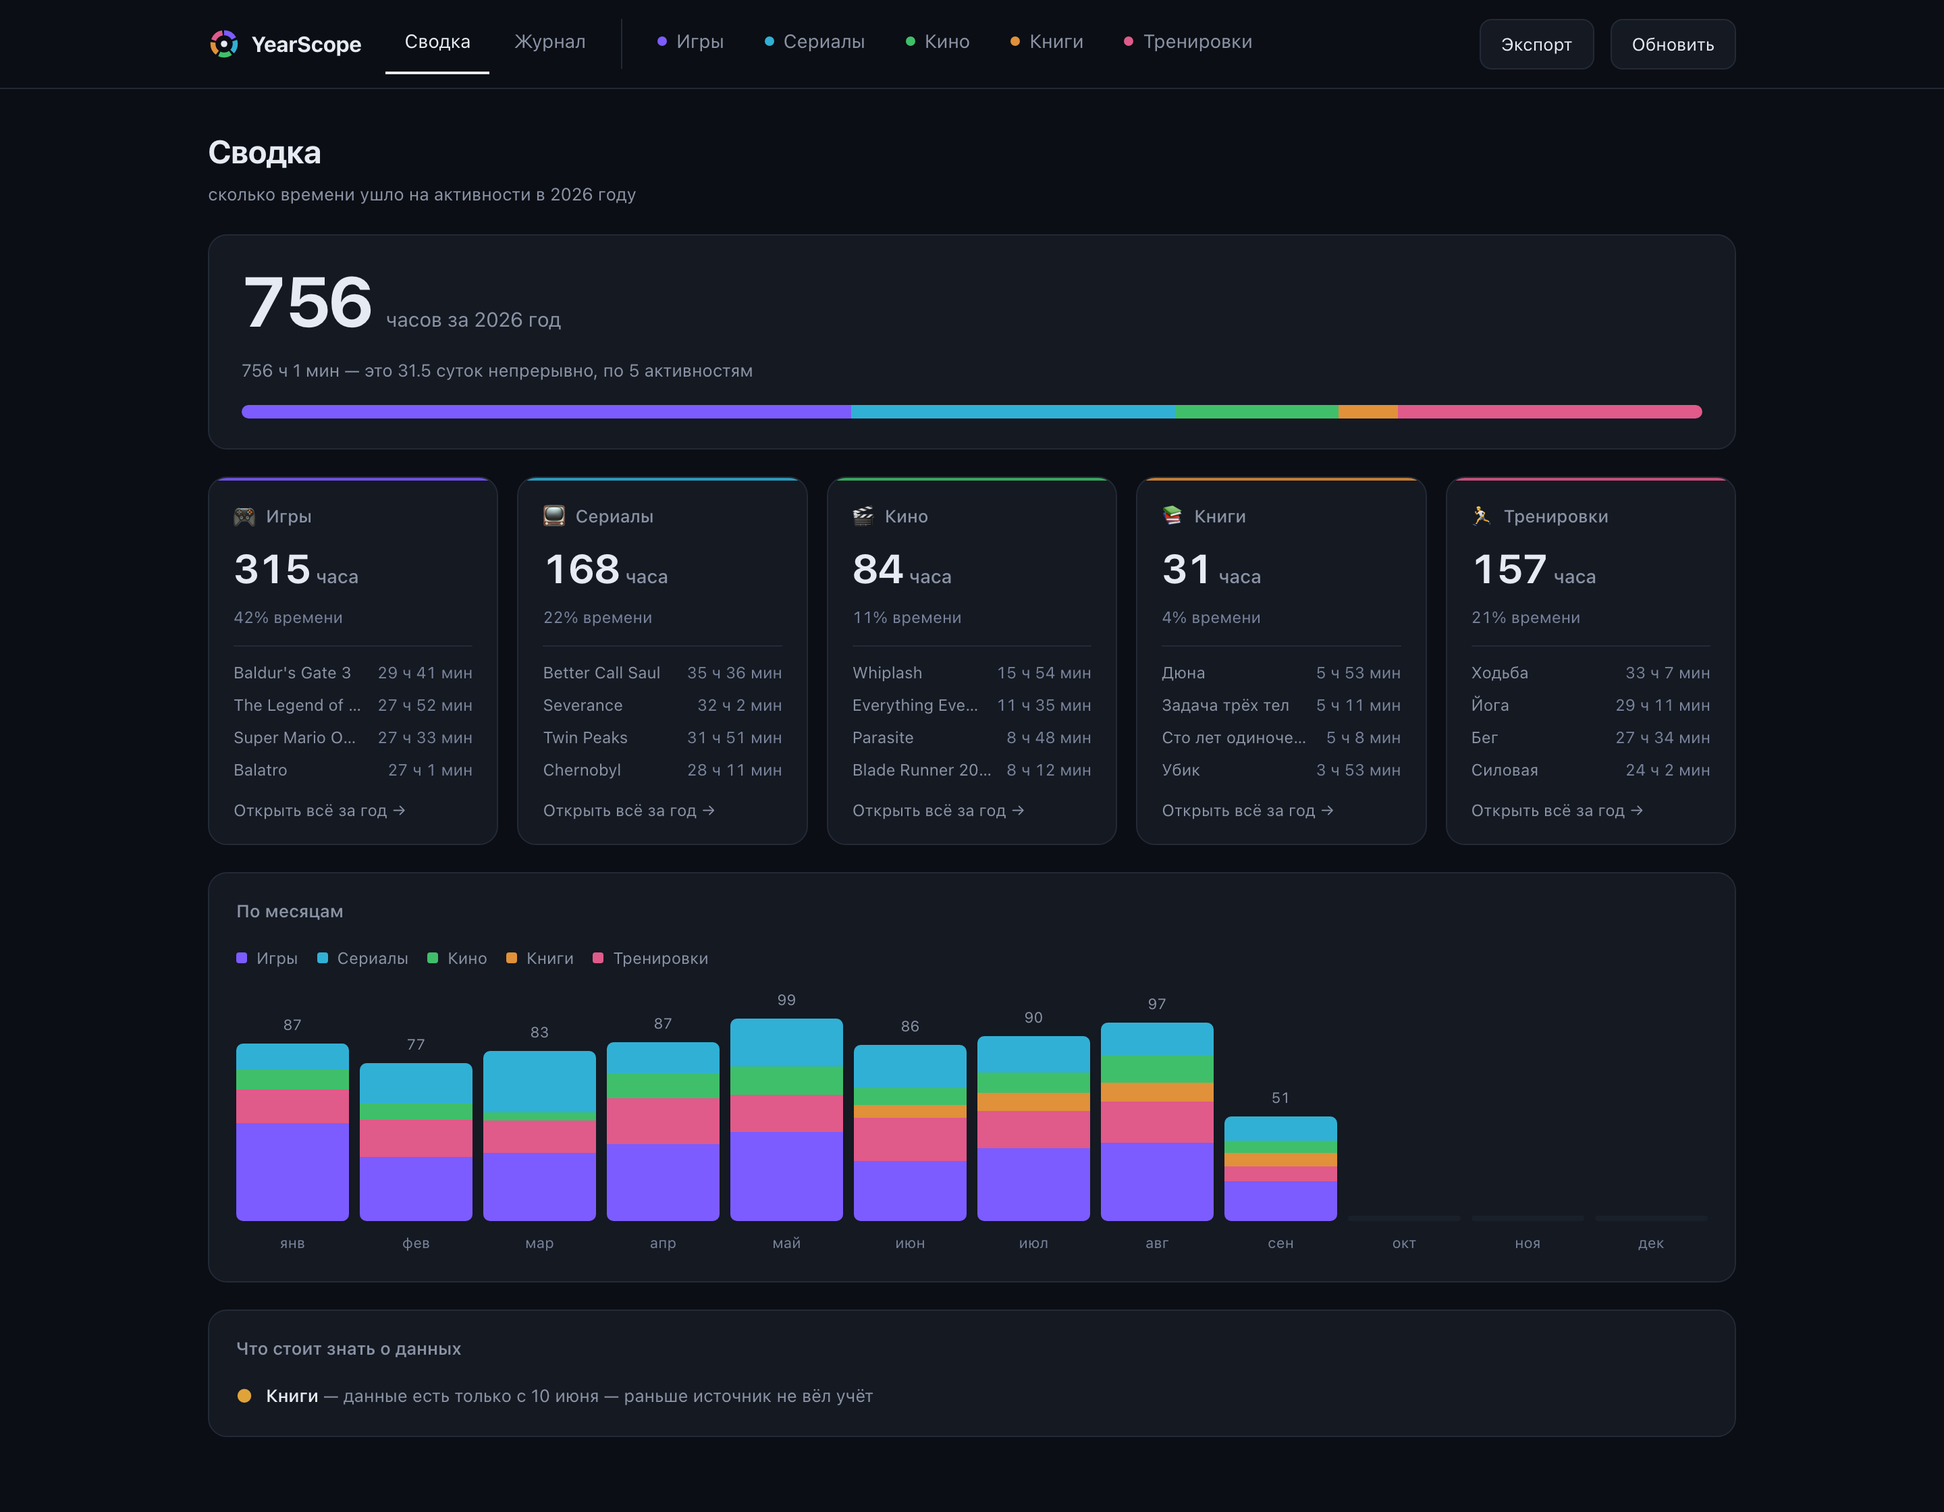
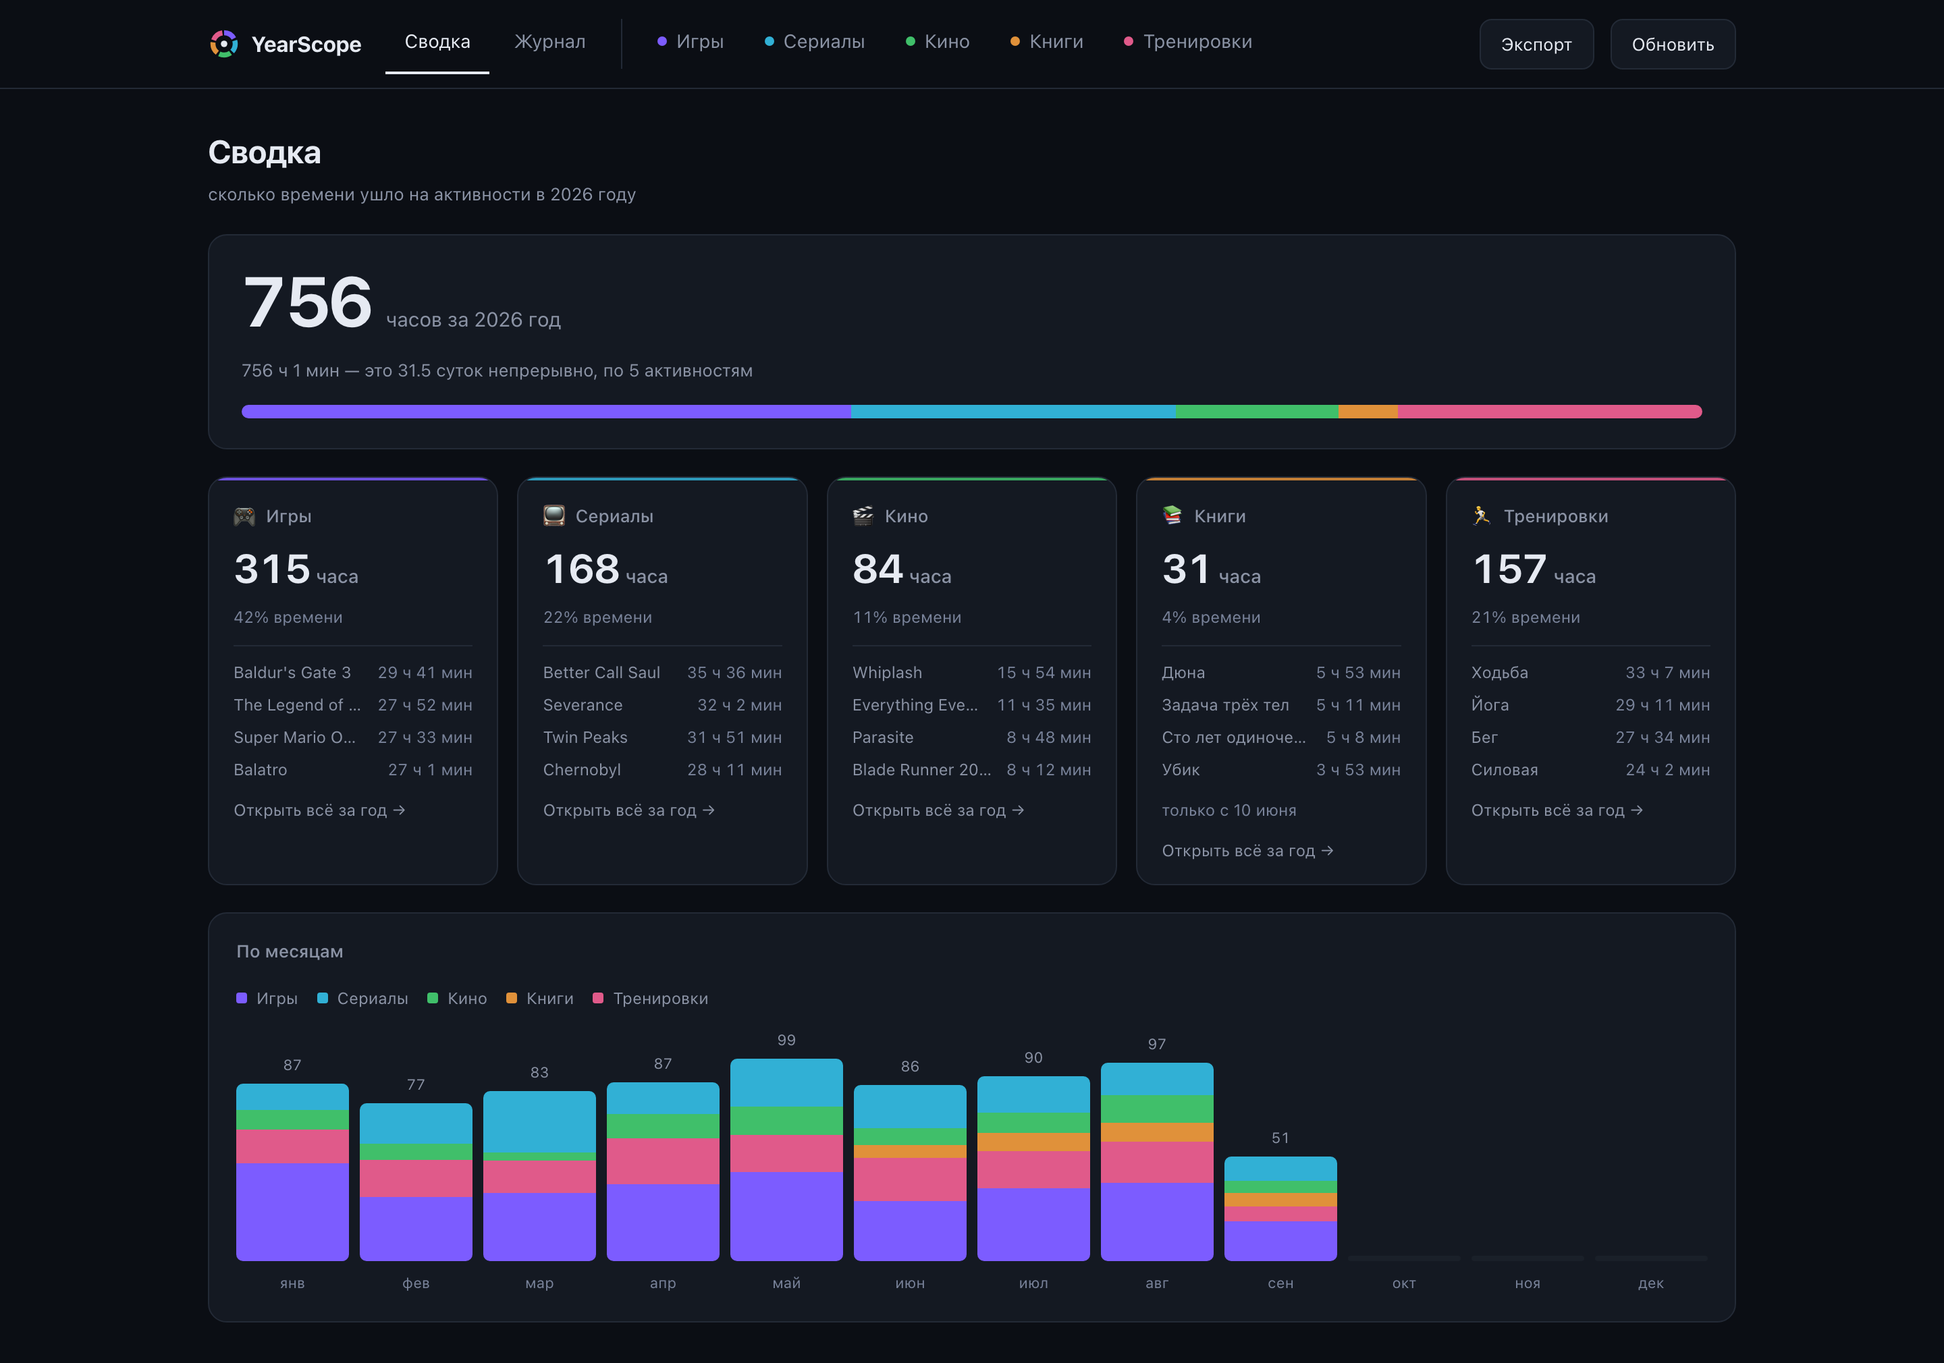
README-витрина: один экран, одна мысль
README свёлся к одной странице: строка «YearScope — куда ушёл твой год»,
скриншот сводки, что это, откуда данные, установка, лицензия. Разделы про
настройку, экспорт и подробности уехали в docs/sources.md, лишние скриншоты
удалены.

Блок «Что стоит знать о данных» убран из сводки: оговорка о неполном покрытии
теперь стоит прямо на карточке источника, рядом с числом, а не отдельной
панелью внизу.

Логотип обрезан по вордмарку — у SVG было 35% пустоты справа, из-за которой
заголовок разъезжался.

diff --git a/public/app.js b/public/app.js
@@ -17,8 +17,6 @@ const el = {
   chartPanel: document.getElementById('chart-panel'),
   chart: document.getElementById('chart'),
   chartLegend: document.getElementById('chart-legend'),
-  gapsPanel: document.getElementById('gaps-panel'),
-  gaps: document.getElementById('gaps'),
   journalFilters: document.getElementById('journal-filters'),
   journalFeed: document.getElementById('journal-feed'),
   sourceBack: document.getElementById('source-back'),
@@ -253,6 +251,14 @@ function renderCard(source, index = 0) {
     card.append(list);
   }
 
+  // Честность про данные важнее красивой цифры: если источник знает только
+  // половину года, это написано прямо на карточке, а не подразумевается.
+  const caveat =
+    source.coversFrom && source.coversFrom > `${summaryData?.year ?? source.coversFrom.slice(0, 4)}-01-02`
+      ? `только с ${formatDay(source.coversFrom)}`
+      : source.warning;
+  if (caveat) card.append(node('div', 'card__note', caveat));
+
   // Постоянный affordance: кликабельность видна без ховера и тултипа.
   if (source.seconds > 0) card.append(node('div', 'card__more', 'Открыть всё за год →'));
 
@@ -310,51 +316,6 @@ function renderChart(data) {
           : `${MONTH_LABELS[index]}: нет данных`,
       );
       return column;
-    }),
-  );
-}
-
-/**
- * Честность про данные важнее красивой цифры: если источник знает только
- * половину года, это должно быть написано рядом с итогом, а не подразумеваться.
- */
-function renderGaps(data) {
-  const notes = [];
-
-  for (const source of data.sources) {
-    if (!source.configured) {
-      notes.push({ level: 'warn', label: source.label, text: 'источник ещё не подключён — время не учтено в сумме' });
-      continue;
-    }
-    if (source.status === 'error') {
-      notes.push({ level: 'error', label: source.label, text: `последняя синхронизация не удалась: ${source.message ?? '—'}` });
-      continue;
-    }
-    if (source.status === 'never') {
-      notes.push({ level: 'warn', label: source.label, text: 'ещё ни разу не синхронизировался' });
-      continue;
-    }
-    if (source.coversFrom && source.coversFrom > `${data.year}-01-02`) {
-      notes.push({
-        level: 'warn',
-        label: source.label,
-        text: `данные есть только с ${formatDay(source.coversFrom)} — раньше источник не вёл учёт`,
-      });
-    }
-    if (source.warning) {
-      notes.push({ level: 'warn', label: source.label, text: source.warning });
-    }
-  }
-
-  el.gapsPanel.hidden = notes.length === 0;
-  el.gaps.replaceChildren(
-    ...notes.map((note) => {
-      const row = document.createElement('li');
-      row.append(node('span', `gaps__mark${note.level === 'error' ? ' gaps__mark--error' : ''}`, '●'));
-      const body = document.createElement('span');
-      body.append(node('b', null, note.label), document.createTextNode(` — ${note.text}`));
-      row.append(body);
-      return row;
     }),
   );
 }
@@ -589,7 +550,6 @@ async function load() {
   renderTotal(summaryData);
   el.cards.replaceChildren(...summaryData.sources.map((source, index) => renderCard(source, index)));
   renderChart(summaryData);
-  renderGaps(summaryData);
   renderJournalFilters();
   renderSourceNav();
   renderFooter(summaryData);

diff --git a/public/style.css b/public/style.css
@@ -834,39 +834,6 @@ body {
   font-variant-numeric: tabular-nums;
 }
 
-/* --- оговорки о данных --- */
-
-.gaps {
-  list-style: none;
-  margin: 0;
-  padding: 0;
-  display: flex;
-  flex-direction: column;
-  gap: 10px;
-}
-
-.gaps li {
-  display: flex;
-  gap: 10px;
-  font-size: 13px;
-  color: var(--text-dim);
-  line-height: 1.45;
-}
-
-.gaps b {
-  color: var(--text);
-  font-weight: 550;
-}
-
-.gaps__mark {
-  flex-shrink: 0;
-  color: var(--warn);
-}
-
-.gaps__mark--error {
-  color: var(--error);
-}
-
 @media (max-width: 620px) {
   .shell {
     padding: 20px 16px 48px;

diff --git a/public/index.html b/public/index.html
@@ -73,11 +73,6 @@
           <div class="legend" id="chart-legend"></div>
           <div class="chart" id="chart"></div>
         </div>
-
-        <div class="panel" id="gaps-panel" hidden>
-          <h2 class="panel__title">Что стоит знать о данных</h2>
-          <ul class="gaps" id="gaps"></ul>
-        </div>
       </section>
 
       <!-- Журнал -->

diff --git a/README.md b/README.md
@@ -1,12 +1,12 @@
-<p align="center">
+<h3 align="center">
   <picture>
     <source media="(prefers-color-scheme: dark)" srcset="public/logo.svg" />
-    <img src="public/logo-light.svg" width="260" alt="YearScope" />
+    <img src="public/logo-light.svg" width="150" align="middle" alt="YearScope" />
   </picture>
-</p>
+  — куда ушёл твой год
+</h3>
 
 <p align="center">
-  <b>Куда ушёл твой год.</b><br />
   Игры, сериалы, кино, книги и тренировки — на одном экране и в сумме часов.
 </p>
 
@@ -20,9 +20,6 @@
 <p align="center">
   <img src="docs/screenshots/summary.png" width="900" alt="Сводка YearScope: 756 часов за год, разбитые по пяти активностям" />
 </p>
-<p align="center"><sub>Здесь и ниже — демо-данные: вымышленный год, который поднимается одной командой.</sub></p>
-
----
 
 ## Что это
 
@@ -32,81 +29,36 @@
 
 ## Откуда данные
 
-| Активность | Источник |
-|---|---|
-| 🎮 Игры | [gowithme.club](https://gowithme.club) |
-| 📺 Сериалы | [myshows](https://myshows.me) |
-| 🎬 Кино | [Letterboxd](https://letterboxd.com) + TMDB |
-| 📚 Книги | [KoShelf](https://github.com/scampower3/koshelf) |
-| 🏃 Тренировки | [intervals.icu](https://intervals.icu) |
+- 🎮 игры — [gowithme.club](https://gowithme.club)
+- 📺 сериалы — [myshows.me](https://myshows.me)
+- 🎬 кино — [letterboxd.com](https://letterboxd.com)
+- 📚 книги — [koshelf](https://github.com/scampower3/koshelf)
+- 🏃 тренировки — [intervals.icu](https://intervals.icu)
 
-Источники не подгоняются друг под друга. Если сервис ведёт учёт только с июня — так и написано на экране рядом с итогом, а не спрятано в мелком шрифте.
+## Установка
 
-## Экраны
-
-<table>
-  <tr>
-    <td width="50%">
-      <img src="docs/screenshots/journal.png" alt="Журнал: лента активностей по дням" /><br />
-      <b>Журнал</b> — лента по дням, сверху свежее. Что за фильм, какая серия, какая тренировка и сколько это заняло.
-    </td>
-    <td width="50%">
-      <img src="docs/screenshots/source-games.png" alt="Карточка активности: полный рейтинг игр за год" /><br />
-      <b>Карточка активности</b> — полный рейтинг за год и лента только по ней. Открывается кликом по карточке в сводке.
-    </td>
-  </tr>
-</table>
-
-<p align="center">
-  <img src="docs/screenshots/mobile.png" width="260" alt="YearScope на телефоне" />
-</p>
-<p align="center"><sub>С телефона — тоже. Открывается в домашней сети, без приложений.</sub></p>
-
-## Попробовать за минуту
+Нужен только [Node 24+](https://nodejs.org). `npm install` не нужен: **ноль зависимостей** — свежий Node умеет SQLite и TypeScript из коробки.
 
 ```bash
-npm run demo           # → http://localhost:3010
+npm run demo
 ```
 
-Поднимет тот самый вымышленный год со скриншотов. Ни ключей, ни аккаунтов, ни сети — данные генерируются локально и живут отдельно от настоящей базы.
+Поднимет демо-год со скриншотов на `localhost:3010` — без ключей, аккаунтов и сети.
 
-## Запуск по-настоящему
+Со своими данными:
 
 ```bash
 cp .env.example .env   # вписать свои ники и ключи
-npm start              # → http://localhost:3010
+npm start
 ```
 
-`npm install` не нужен: **ноль зависимостей** — свежий Node умеет SQLite и TypeScript из коробки.
-
-В Docker:
+Или в Docker:
 
 ```bash
 docker compose up -d --build
 ```
 
-## Настройка
-
-Всё в `.env`. Обязательных полей нет: незаполненный источник просто выключается, остальные работают.
-
-| Переменная | Зачем |
-|---|---|
-| `GOWITHME_PLAYER`, `LETTERBOXD_USER`, `MYSHOWS_LOGIN` | твои ники в этих сервисах |
-| `KOSHELF_BASE_URL` | адрес KoShelf в сети |
-| `INTERVALS_API_KEY`, `INTERVALS_ATHLETE_ID` | тренировки из intervals.icu |
-| `TMDB_API_KEY` | точный хронометраж фильмов (без него — оценка по средней длительности) |
-
-История сериалов берётся из выгрузки профиля myshows — положи `.xlsx` в `data/imports/`.
-
-Остальное — порт, год, частота синхронизации, часовой пояс — есть в [`.env.example`](.env.example) со значениями по умолчанию.
-
-## Экспорт
-
-Кнопка **Экспорт** отдаёт год целиком: JSON со сводкой, журналом и топами — или плоский CSV для Excel.
-
-## Подробности
-
-[Как устроены источники](docs/sources.md) — почему Letterboxd приходится накапливать, откуда берётся история myshows, зачем сходятся часовые пояса, модель данных и HTTP API.
+Обязательных полей в `.env` нет: незаполненный источник просто выключается, остальные работают. Что и зачем — в [`.env.example`](.env.example), как устроены источники — в [docs/sources.md](docs/sources.md).
 
 ## Лицензия
 

diff --git a/docs/sources.md b/docs/sources.md
@@ -51,6 +51,25 @@
 
 `covers_from` — не техническая деталь: если источник знает только полгода, это написано на экране рядом с итогом, а не подразумевается.
 
+## Настройка
+
+Всё через `.env`. Обязательных полей нет: незаполненный источник просто выключается, остальные работают.
+
+| Переменная | Зачем |
+|---|---|
+| `GOWITHME_PLAYER`, `LETTERBOXD_USER`, `MYSHOWS_LOGIN` | ники в этих сервисах |
+| `KOSHELF_BASE_URL` | адрес KoShelf в сети |
+| `INTERVALS_API_KEY`, `INTERVALS_ATHLETE_ID` | тренировки из intervals.icu |
+| `TMDB_API_KEY` | точный хронометраж фильмов (без него — оценка по средней длительности) |
+
+История сериалов берётся из выгрузки профиля myshows — положи `.xlsx` в `data/imports/`.
+
+Остальное — порт, год, частота синхронизации, часовой пояс — есть в [`.env.example`](../.env.example) со значениями по умолчанию.
+
+## Экспорт
+
+Кнопка **Экспорт** отдаёт год целиком: JSON со сводкой, журналом и топами — или плоский CSV для Excel.
+
 ## API
 
 | Метод | Назначение |
